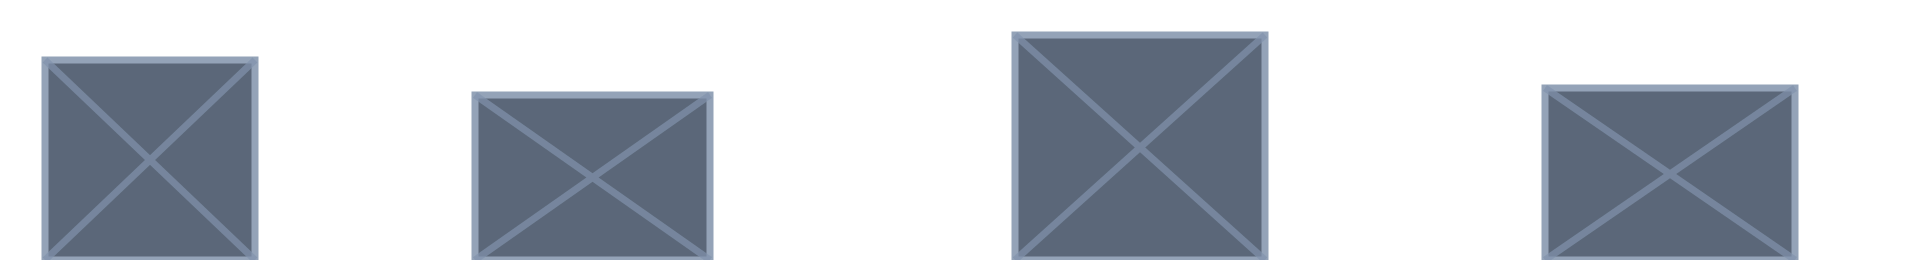
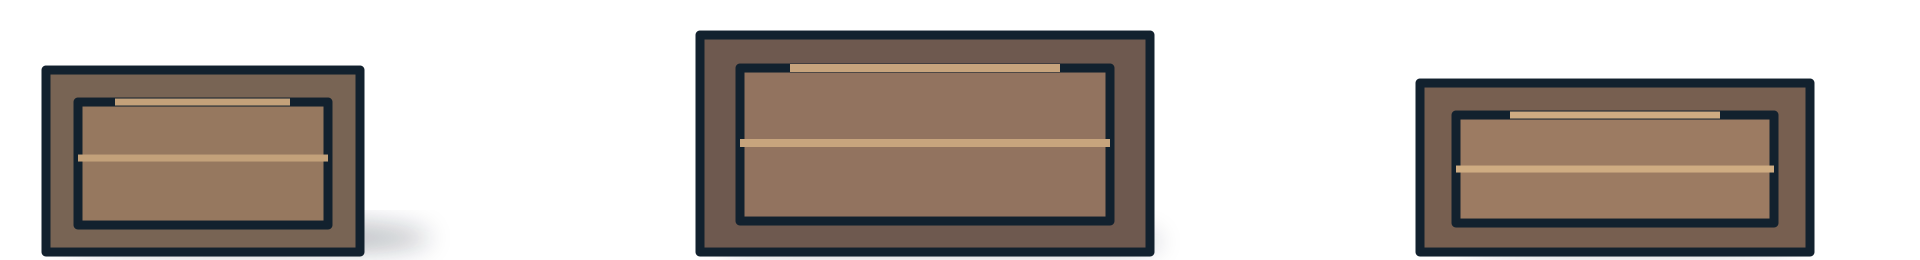
그린바다 — 백지 크기 고르기 · 다 같이 세계 · P26 배경

diff --git a/public/mini-games/paint-world/index.html b/public/mini-games/paint-world/index.html
@@ -84,7 +84,7 @@ const VW = 1280, VH = 720;
      '배포했는데 화면은 그대로'가 된다. 실측: 고릴라 파일을 지웠는데도
      브라우저가 캐시에서 줘서 검사가 통과했다.
    stamp.py 가 어셋 폴더의 최신 수정 시각으로 갈아 끼운다. */
-const AREV = '1788018318';
+const AREV = '1788034443';
 
 const PAL = {
   ink:'#12212e',
@@ -1021,6 +1021,11 @@ const Paint = {
   },
   toTpl(x,y){ const b=this.box(); return {x:(x-b.x)/b.w*TW, y:(y-b.y)/b.h*TH}; },
 
+  /* 백지로 그릴 때 아이가 고르는 크기 — 종이 없으니 크기도 아이가 정한다.
+     ⚠ 도안이 있는 종은 종마다 크기가 정해져 있다(고래는 크고 새우는 작다).
+       백지는 그게 없어서 전부 같은 크기로 나갔다. */
+  FREE_SIZES:[ {ko:'작게', k:0.62}, {ko:'보통', k:1.0}, {ko:'크게', k:1.7} ],
+  freeSize:1,
   open(spId, mode){
     this.mode = mode || null;
     if(typeof BG!=='undefined'){ BG.get('paper'); BG.get('frame-wood'); }
@@ -3357,10 +3362,8 @@ const ModeWorld = {
   FRONT:{
     dino:  [['dino-tree-near',0.02,0.64,3.6],['dino-rock-near',0.66,0.24,3.2],
             ['dino-grass-front',0.90,0.10,4.4]],
-    /* ⚠ city-crate 는 **X자 와이어프레임 상자 네 개**다 — 화면에서는 상자가 아니라
-       '이미지 깨진 자리표시'로 읽힌다(실기기 확인). 제대로 된 그림이 올 때까지 뺀다.
-       발주 → prompts/P26. */
-    robot: [['city-factory',0.02,0.64,3.6],
+    /* P26: 채워진 나무 상자로 교체해 전경에 다시 넣는다. */
+    robot: [['city-factory',0.02,0.64,3.6],['city-crate',0.66,0.24,3.2],
             ['city-front',0.90,0.10,4.4]],
     bug:   [['bug-leaf-near',0.02,0.64,3.6],['bug-stone-near',0.66,0.24,3.2],
             ['bug-grass-front',0.90,0.10,4.4]],
@@ -4275,6 +4278,155 @@ const JWorld = {
 
 </script>
 <script>
+/* ===== js/47_allworld.js ===== */
+/* ══════════════════════════════════════════════════════════════════
+   「다 같이」 — 다섯 세계의 생물이 한 화면에 모이는 곳.
+
+   ⚠ 왜 따로 만드나: 세계마다 무대·땅높이·움직임이 달라서, 한 세계의 배경에
+     다른 세계 생물을 얹으면 발이 뜨거나 파묻힌다.
+     여기는 **어느 세계도 아닌 자리**다 — 하늘과 들판만 있고 모두가 함께 있다.
+     물고기는 공중을 헤엄친다. 그게 이 세계의 규칙이고, 아이는 그걸 재미있어한다.
+
+   생물이 세계에 요구하는 것은 많지 않다(실측):
+     neighbors · nearestFood · eatFood · findT · callAt · scareAt · touchAt
+     · flock · perchYAt · groundY
+   그것만 갖추면 바다·정글·새 모드가 그대로 살아 움직인다.
+   ══════════════════════════════════════════════════════════════════ */
+'use strict';
+
+const AllWorld = {
+  t:0, scroll:0, timeIdx:1, foods:[], scareAt:null, findT:0, callAt:null,
+  touchAt:null, flock:true,
+  hills:null, clouds:null,
+
+  GROUND: 0.78,                       // 정글(0.755)과 새 모드(0.80) 사이
+  groundY(){ return VH*this.GROUND; },
+  perchYAt(){ return this.groundY(); },
+
+  init(){
+    if(this.hills) return;
+    this.hills=[];
+    for(let b=0;b<3;b++){
+      const pts=[];
+      for(let i=0;i<=14;i++) pts.push(0.30+Math.sin(i*0.9+b*2.1)*0.05+Math.sin(i*2.3+b)*0.03);
+      this.hills.push({pts, y:0.44+b*0.11, a:0.30+b*0.22});
+    }
+    this.clouds=[];
+    for(let i=0;i<7;i++) this.clouds.push({
+      x:rnd()*VW*1.4, y:VH*(0.06+rnd()*0.26), w:120+rnd()*220,
+      sp:0.06+rnd()*0.14, a:0.10+rnd()*0.16});
+  },
+  prefetch(){ /* 코드로만 그린다 — 어셋을 기다리지 않는다 */ },
+  set(){ },
+
+  update(dt){
+    this.t+=dt*60; this.scroll+=0.16;
+    if(this.findT>0) this.findT--;
+    if(this.callAt && --this.callAt.life<=0) this.callAt=null;
+    for(const cl of this.clouds||[]){
+      cl.x -= cl.sp; if(cl.x < -cl.w) cl.x = VW+cl.w*0.5;
+    }
+    /* 먹이는 바닥으로 떨어진다 */
+    for(let i=this.foods.length-1;i>=0;i--){
+      const f=this.foods[i];
+      const rest=f.rest||this.groundY();
+      if(f.y<rest){ f.vy=Math.min(2.0,(f.vy||0.3)+0.05); f.y+=f.vy; if(f.y>rest) f.y=rest; }
+      if(--f.life<=0) this.foods.splice(i,1);
+    }
+  },
+
+  draw(c){
+    this.init();
+    /* 하늘 — 새벽빛에서 크림색으로 */
+    const g=c.createLinearGradient(0,0,0,VH*this.GROUND);
+    g.addColorStop(0,'#8fa6d8'); g.addColorStop(0.45,'#cfd3ea'); g.addColorStop(1,'#f2e3c8');
+    c.fillStyle=g; c.fillRect(0,0,VW,VH);
+    /* 해 */
+    const sx=VW*0.72, sy=VH*0.20;
+    const sg=c.createRadialGradient(sx,sy,10, sx,sy, VH*0.42);
+    sg.addColorStop(0,'rgba(255,246,214,.85)'); sg.addColorStop(1,'rgba(255,246,214,0)');
+    c.fillStyle=sg; c.beginPath(); c.arc(sx,sy,VH*0.42,0,TAU); c.fill();
+    /* 구름 */
+    for(const cl of this.clouds){
+      c.save(); c.globalAlpha=cl.a; c.fillStyle='#fff';
+      for(let k=0;k<3;k++){
+        c.beginPath();
+        c.ellipse(cl.x+k*cl.w*0.24, cl.y+Math.sin(k*1.7)*8, cl.w*0.28, cl.w*0.12, 0,0,TAU);
+        c.fill();
+      }
+      c.restore();
+    }
+    /* 언덕 셋 — 뒤에서 앞으로 */
+    const cols=['#9fb98e','#7ea173','#5f855c'];
+    this.hills.forEach((h,bi)=>{
+      c.save(); c.globalAlpha=h.a+0.45; c.fillStyle=cols[bi];
+      c.beginPath();
+      const off=(this.scroll*(0.3+bi*0.35))%VW;
+      c.moveTo(-off, VH);
+      for(let i=0;i<=14;i++){
+        const x=-off + i*(VW/12);
+        c.lineTo(x, VH*(h.y+h.pts[i]*0.28));
+      }
+      c.lineTo(VW*1.4, VH); c.closePath(); c.fill();
+      c.restore();
+    });
+    /* 들판 */
+    const gy=this.groundY();
+    const fg=c.createLinearGradient(0,gy,0,VH);
+    fg.addColorStop(0,'#79a35f'); fg.addColorStop(1,'#4f7440');
+    c.fillStyle=fg; c.fillRect(0,gy,VW,VH-gy);
+    /* 풀 몇 포기 */
+    c.save(); c.strokeStyle='rgba(60,92,48,.55)'; c.lineWidth=3; c.lineCap='round';
+    for(let i=0;i<40;i++){
+      const x=((i*137.5 - this.scroll*1.6)%(VW+40))-20;
+      const h=10+((i*37)%16);
+      c.beginPath(); c.moveTo(x, gy+6+((i*23)%18));
+      c.quadraticCurveTo(x+3, gy-h*0.4, x+ (i%2?7:-7), gy-h);
+      c.stroke();
+    }
+    c.restore();
+    /* 먹이 */
+    for(const f of this.foods){
+      if(!Props.draw(c,'fruit',f.x,f.y+8,18)){
+        c.fillStyle=PAL.gold; c.beginPath(); c.arc(f.x,f.y,6,0,TAU); c.fill(); }
+    }
+  },
+  drawFront(){ },
+
+  /* ── 생물이 쓰는 약속들 ───────────────────────────── */
+  CELL:230, grid:{}, gridT:-1,
+  rebuildGrid(arr){
+    if(this.gridT===Game.t) return;
+    this.gridT=Game.t;
+    const g={};
+    for(const o of arr){ const k=(o.x/this.CELL)|0; (g[k]=g[k]||[]).push(o); }
+    this.grid=g;
+  },
+  neighbors(x,y,self){
+    this.rebuildGrid(Game.beings);
+    const gx=(x/this.CELL)|0, out=[];
+    for(let i=-1;i<=1;i++){
+      const cell=this.grid[gx+i]; if(!cell) continue;
+      for(const o of cell){ if(o===self) continue; out.push(o); if(out.length>12) return out; }
+    }
+    return out;
+  },
+  dropFood(x){
+    for(let i=0;i<18;i++)
+      this.foods.push({x:x+(rnd()-0.5)*260, y:VH*0.16, vy:0.12+rnd()*0.1,
+                       life:1400, rest:this.groundY()-rnd()*24});
+    Sfx.plop();
+  },
+  nearestFood(x,y){ let b=null,bd=1e9;
+    for(const f of this.foods){ const d=dist(x,y,f.x,f.y); if(d<bd){bd=d;b=f;} } return b; },
+  eatFood(f,c){ f.bites=(f.bites||0)+1; FX.heart(c.x,c.y-20); Sfx.eat();
+    if(f.bites>=3){ const i=this.foods.indexOf(f); if(i>=0) this.foods.splice(i,1); } },
+  scare(x,y){ this.scareAt={x,y}; for(const b of Game.beings) b.scared=40; },
+  callMine(x,y){ this.findT=720; this.callAt={x,y,life:720}; },
+};
+
+</script>
+<script>
 /* ===== js/60_ui.js ===== */
 /* UI — 아이가 쓰는 버튼. 크고, 글자 없이 그림으로. */
 'use strict';
@@ -4627,6 +4779,7 @@ const Game = {
         /* 백지 그림 — 종이 없다. 움직임은 되살린 그림의 비율에서 다시 정한다 */
         const fc=new Creature(img, 'clownfish', rec.n, {mine:rec.m, born:rec.b, item:rec.it});
         fc.free=true;
+        if(rec.fk){ fc.baseS=(0.82/(typeof TEX_K!=='undefined'?TEX_K:1))*rec.fk; fc.s=fc.baseS; }
         raw.onload=()=>{ fc.motion=freeMotion(raw.naturalWidth/Math.max(1,raw.naturalHeight));
                          try{ img.getContext('2d').drawImage(raw,0,0,TEX_W,TEX_H); }catch(e){} };
         this.creatures.push(fc);
@@ -4840,11 +4993,24 @@ const Game = {
   get W(){
     if(this.realm==='sea') return World;
     if(this.realm==='jungle') return JWorld;
+    if(this.realm==='all') return AllWorld;
     ModeWorld.set(this.realm); return ModeWorld;
   },
   get beings(){
     if(this.realm==='sea') return this.creatures;
     if(this.realm==='jungle') return this.animals;
+    if(this.realm==='all'){
+      /* ⚠ 매 프레임 200개짜리 배열을 새로 만들면 정렬 캐시가 계속 깨진다.
+         마리 수가 바뀔 때만 다시 세운다. */
+      const n=this.creatures.length+this.animals.length
+            + this.modeBeings.dino.length+this.modeBeings.robot.length+this.modeBeings.bug.length;
+      if(!this._allList || this._allN!==n){
+        this._allList=[].concat(this.creatures, this.animals,
+          this.modeBeings.dino, this.modeBeings.robot, this.modeBeings.bug);
+        this._allN=n;
+      }
+      return this._allList;
+    }
     return this.modeBeings[this.realm] || (this.modeBeings[this.realm]=[]);
   },
   /* 세계 차례 — 어셋이 준비된 모드만 돈다.
@@ -4857,10 +5023,12 @@ const Game = {
     const out=['sea','jungle'];
     for(const m of ['dino','robot','bug'])
       if(typeof MODES!=='undefined' && MODES[m] && MODES[m].list().length) out.push(m);
+    /* 「다 같이」 — 맨 끝. 다른 세계가 있어야 의미가 있다 */
+    if(typeof AllWorld!=='undefined' && out.length>=2) out.push('all');
     return out;
   },
   readyRealm(r){
-    if(r==='sea'||r==='jungle') return true;
+    if(r==='sea'||r==='jungle'||r==='all') return true;
     return !!(typeof MTemplate!=='undefined' && MTemplate.ready(r).length);
   },
   /* 특정 세계로 곧장 — 순환(switchRealm)이 아니라 지목해서 간다 */
@@ -4944,6 +5112,13 @@ const Game = {
         x:-140, y:VH*(0.26+rnd()*0.42)});
       c.motion = freeMotion(tex && tex.freeAR ? tex.freeAR : 1);
       c.free = true;
+      /* 아이가 고른 크기 — 저장에도 남겨 다시 켰을 때 그대로 나온다.
+         ⚠ baseS 에는 종마다 0.62~1.02 의 무작위 편차가 있다. 그걸 그대로 두면
+           **'크게'를 골라도 '보통'보다 작게 나올 수 있다**(편차 1.65배 = 선택 폭과
+           비슷). 백지는 크기를 아이가 정하는 것이니 무작위를 빼고 선택만 남긴다. */
+      const fk=(Paint.FREE_SIZES[Paint.freeSize]||{k:1}).k;
+      c.baseS = (0.82/(typeof TEX_K!=='undefined'?TEX_K:1)) * fk;
+      c.s = c.baseS; this.pendingFK = fk;
       while(this.creatures.length>=250) this.creatures.shift();
       this.creatures.push(c);
       this.realm='sea';
@@ -4985,13 +5160,14 @@ const Game = {
     /* 저장 */
     try{
       const rec={d:Save.encode(tex), sp:spId, n:this.myName, m:true, b:Date.now()};
+      if(isFree && this.pendingFK) rec.fk=this.pendingFK;   // 아이가 고른 크기
       Save.data.creatures.push(rec);
       /* 도감 — 그림은 밀려나도 '그려 봤다'는 남는다 */
       if(!Save.data.seen) Save.data.seen={};
       Save.data.seen[spId]=(Save.data.seen[spId]||0)+1;
       Save.data.made=(Save.data.made||0)+1; Save.write();
       /* 여러 대 운영 — 큰 화면으로 보낸다. 서버가 없으면 조용히 넘어간다 */
-      if(typeof Net!=='undefined') Net.push({d:rec.d, sp:spId, n:this.myName});
+      if(typeof Net!=='undefined') Net.push({d:rec.d, sp:spId, n:this.myName, fk:rec.fk});
     }catch(_){}
     this.W.findT=200;      // ⚠ World 로 박아 두면 정글에서 안 켜진다
     if(typeof Grow!=='undefined') Grow.add('draw', VW/2, VH*0.4);
@@ -5102,7 +5278,11 @@ const Game = {
     const p=Input.takeTap();
     if(!p) return;
     const id=UI.hit(p);
-    if(id==='new'){ this.state=ST.PICK; this.pickPage=0; Sfx.ui(); return; }
+    if(id==='new'){
+      /* ⚠ 「다 같이」 는 보는 세계다 — 여기서 고르게 하면 229종이 16쪽이 된다.
+         막다른 길을 만들지 말고 바다 목록으로 보낸다(세계 줄에서 바로 옮길 수 있다). */
+      if(this.realm==='all') this.goRealm('sea', true);
+      this.state=ST.PICK; this.pickPage=0; Sfx.ui(); return; }
     if(id==='feed'){ this.W.dropFood(VW/2+(rnd()-0.5)*400, VH*0.25); this.say('먹이를 뿌렸어요'); return; }
     if(id==='find'){
       const mine=this.beings.filter(b=>b.mine).length;
@@ -5211,6 +5391,7 @@ const Game = {
       }
       this.askName();
     }
+    else if(id && id.startsWith('fsz:')){ Paint.freeSize=+id.slice(4); Sfx.ui(); }
     else if(id==='undo'){ Paint.doUndo(); }
     else if(id==='clear'){ Paint.clear(); }
     else if(id==='size'){ Paint.sizeIdx=(Paint.sizeIdx+1)%Paint.sizes.length;
@@ -5505,7 +5686,9 @@ const Game = {
     const verb = this.realm==='sea' ? '헤엄치고'
                : this.realm==='bug' ? '기어다니고'
                : this.realm==='robot' ? '움직이고' : '걷고';
-    c.fillText(`${n}마리가 ${verb} 있어요`, 28, 44);
+    /* 「다 같이」 는 헤엄치고 걷고 날고가 섞여 있다 — 한 동사로 못 묶는다 */
+    c.fillText(this.realm==='all' ? `${n}마리가 다 같이 있어요`
+                                  : `${n}마리가 ${verb} 있어요`, 28, 44);
   },
   drawPick(c){
     c.fillStyle='#123047'; c.fillRect(0,0,VW,VH);
@@ -5638,7 +5821,7 @@ const Game = {
     return (jong===0 || jong===8) ? '로' : '으로';   // 받침 없음·ㄹ 받침은 '로'
   },
   worldName(r){
-    return r==='sea' ? '바다' : r==='jungle' ? '정글'
+    return r==='sea' ? '바다' : r==='jungle' ? '정글' : r==='all' ? '다 같이'
          : ((typeof MODES!=='undefined' && MODES[r]) ? MODES[r].ko : r);
   },
   /* 세계 표식 — 어셋(btn-realm-*)이 있으면 쓰고, 없는 세 세계는 코드로 그린다.
@@ -5668,6 +5851,12 @@ const Game = {
         i?g.lineTo(px,py):g.moveTo(px,py); }
       g.closePath(); g.stroke();
       g.beginPath(); g.arc(0,0,4,0,TAU); g.fill();
+    } else if(r==='all'){                            // 다 같이 — 셋이 모인 표식
+      g.beginPath(); g.arc(-9,2,6,0,TAU); g.fill();
+      g.beginPath(); g.arc(9,2,6,0,TAU); g.fill();
+      g.beginPath(); g.arc(0,-10,7,0,TAU); g.fill();
+      g.lineWidth=2.5;
+      g.beginPath(); g.arc(0,0,15,0,TAU); g.stroke();
     } else {                                         // 풀숲 — 딱정벌레
       g.beginPath(); g.ellipse(0,3,9,11,0,0,TAU); g.stroke();
       g.beginPath(); g.moveTo(0,-8); g.lineTo(0,13); g.stroke();
@@ -5762,6 +5951,26 @@ const Game = {
       (g,r)=>{ if(!Icons.draw(g,'undo',S*0.72)) UI.icon.undo(g,r); });
     UI.btn(c,'clear',VW-S-20, 116+S+10, S,S,
       (g,r)=>{ if(!Icons.draw(g,'clear',S*0.72)) UI.icon.trash(g,r); });
+    /* 백지로 그릴 때만 — 얼마나 크게 내보낼지 아이가 고른다.
+       도안이 있는 종은 종마다 크기가 정해져 있어 고를 필요가 없다. */
+    if(Paint.free){
+      const top=116+(S+10)*2+22;
+      c.save();
+      c.font='700 17px Galmuri11, sans-serif'; c.textAlign='center';
+      c.fillStyle='rgba(255,255,255,.72)';
+      c.fillText('얼마나 크게?', VW-S/2-20, top-8);
+      c.restore();
+      Paint.FREE_SIZES.forEach((sz,i)=>{
+        const on = (Paint.freeSize===i);
+        UI.btn(c,'fsz:'+i, VW-S-20, top+i*(S+8), S, S, (g)=>{
+          g.fillStyle = on ? PAL.gold : 'rgba(255,255,255,.55)';
+          g.beginPath(); g.arc(0,-6, 9+i*7, 0, TAU); g.fill();
+          g.font='700 15px Galmuri11, sans-serif'; g.textAlign='center';
+          g.fillStyle = on ? PAL.gold : 'rgba(255,255,255,.62)';
+          g.fillText(sz.ko, 0, S/2-10);
+        }, on);
+      });
+    }
     UI.btn(c,'back', 20, VH-96, S,S, (g,r)=>{ if(!Icons.draw(g,'btn-back',S*0.72)) UI.icon.back(g,r); });
     /* 제출 — 가장 크게 */
     /* ⚠ 라벨이 '정글이냐 바다냐' 둘 뿐이었다 — 티라노를 칠한 아이도 '바다로!' 를 봤다.
@@ -5891,6 +6100,7 @@ const Game = {
         /* 백지 그림 — 종이 없다. 비율에서 움직임을 정한다 */
         c=new Creature(tex, 'clownfish', rec.n||'', {join:true, x:-140});
         c.free=true;
+        if(rec.fk){ c.baseS=(0.82/(typeof TEX_K!=='undefined'?TEX_K:1))*rec.fk; c.s=c.baseS; }
         try{ c.motion=freeMotion(img.naturalWidth/Math.max(1,img.naturalHeight)); }catch(e){}
         while(this.creatures.length>=250) this.creatures.shift();
         this.creatures.push(c);
@@ -6013,7 +6223,9 @@ const Game = {
     /* ⚠ 세계가 다섯인데 도감이 바다·정글만 보여 주고 있었다 — 수집표가 반쪽이면
        '다음엔 저거'가 절반만 생긴다. 지금 세계의 것을 보여 준다. */
     let list;
-    if(typeof MODES!=='undefined' && MODES[this.realm]){
+    if(this.realm==='all'){        // 「다 같이」 는 모아 보는 세계 — 도감은 바다부터
+      list = SPECIES.filter(sp=>!SEA_LIKE_JUNGLE[sp.id]).map(sp=>({id:sp.id, ko:sp.ko, jungle:false}));
+    } else if(typeof MODES!=='undefined' && MODES[this.realm]){
       list = MODES[this.realm].list().map(D=>({id:D.id, ko:D.ko, mode:this.realm}));
     } else if(this.realm==='jungle'){
       list = Object.entries(JUNGLE).map(([id,d])=>({id, ko:d.ko, jungle:true}));
@@ -6573,8 +6785,9 @@ const SelfTest = {
     /* 세계 차례 — 어셋이 준비된 모드만 돈다 */
     if(typeof Game!=='undefined' && Game.realmOrder){
       const order=Game.realmOrder();
-      const names=order.map(r=> r==='sea'?'바다' : r==='jungle'?'정글'
-                              : ((typeof MODES!=='undefined'&&MODES[r])?MODES[r].ko:r));
+      /* 이름은 게임이 아는 것을 그대로 쓴다 — 점검기가 따로 표를 들면 세계가
+         늘 때마다 여기만 'all' 처럼 날것으로 새어 나온다(실측). */
+      const names=order.map(r=> (Game.worldName? Game.worldName(r) : r));
       L.push('· 세계 '+order.length+'개 — '+names.join(' → '));
       if(typeof MTemplate!=='undefined')
         for(const m of ['dino','robot','bug'])

diff --git a/public/mini-games/paint-world/assets/ASSET_MASTER_INDEX.md b/public/mini-games/paint-world/assets/ASSET_MASTER_INDEX.md
@@ -68,6 +68,12 @@ P0–P16의 에셋 생산은 완료됐다. 정글은 `check_shape.py` **36/36**,
 교체했다. 로봇 `arm`은 좌우 팔 한 쌍 형태로 재작업했고, 39개 부위 anchor를 종별 몸통 실루엣에서
 재산출했다. 노출 보정 13개는 정식 `_anchor.json`에 합쳐 `_anchor_fix.json`은 빈 상태로 통과했다.
 
+**P26 — 공룡·로봇·곤충 세계 배경 보강: 완료 ✓** → `prompts/P26_새세계_배경_보강.md`
+
+`dino-sky`·`city-sky`·`bug-sky`를 명암 그라데이션과 저채도 구름/별/잎사귀 빛으로 교체했다
+(60×34 축소 고유색 406/808/522). `city-crate`는 채워진 목재 상자, `city-factory`는 굴뚝·창문 격자·파이프
+전경으로 교체했고 로봇도시 전경 레이어에 상자를 복구했다. PNG와 런타임 WebP를 함께 갱신하고 `stamp.py`로 개정값을 반영했다.
+
 **P21 — 로봇 50종 + 로봇도시 배경 12종: 완료 ✓** → `prompts/P21_로봇50종.md`
 
 `assets/robot/`에 몸통 ink/mask·마스터 SVG 50종, 분리 부위 ink/mask 39종, `_anchor.json` 39개,
